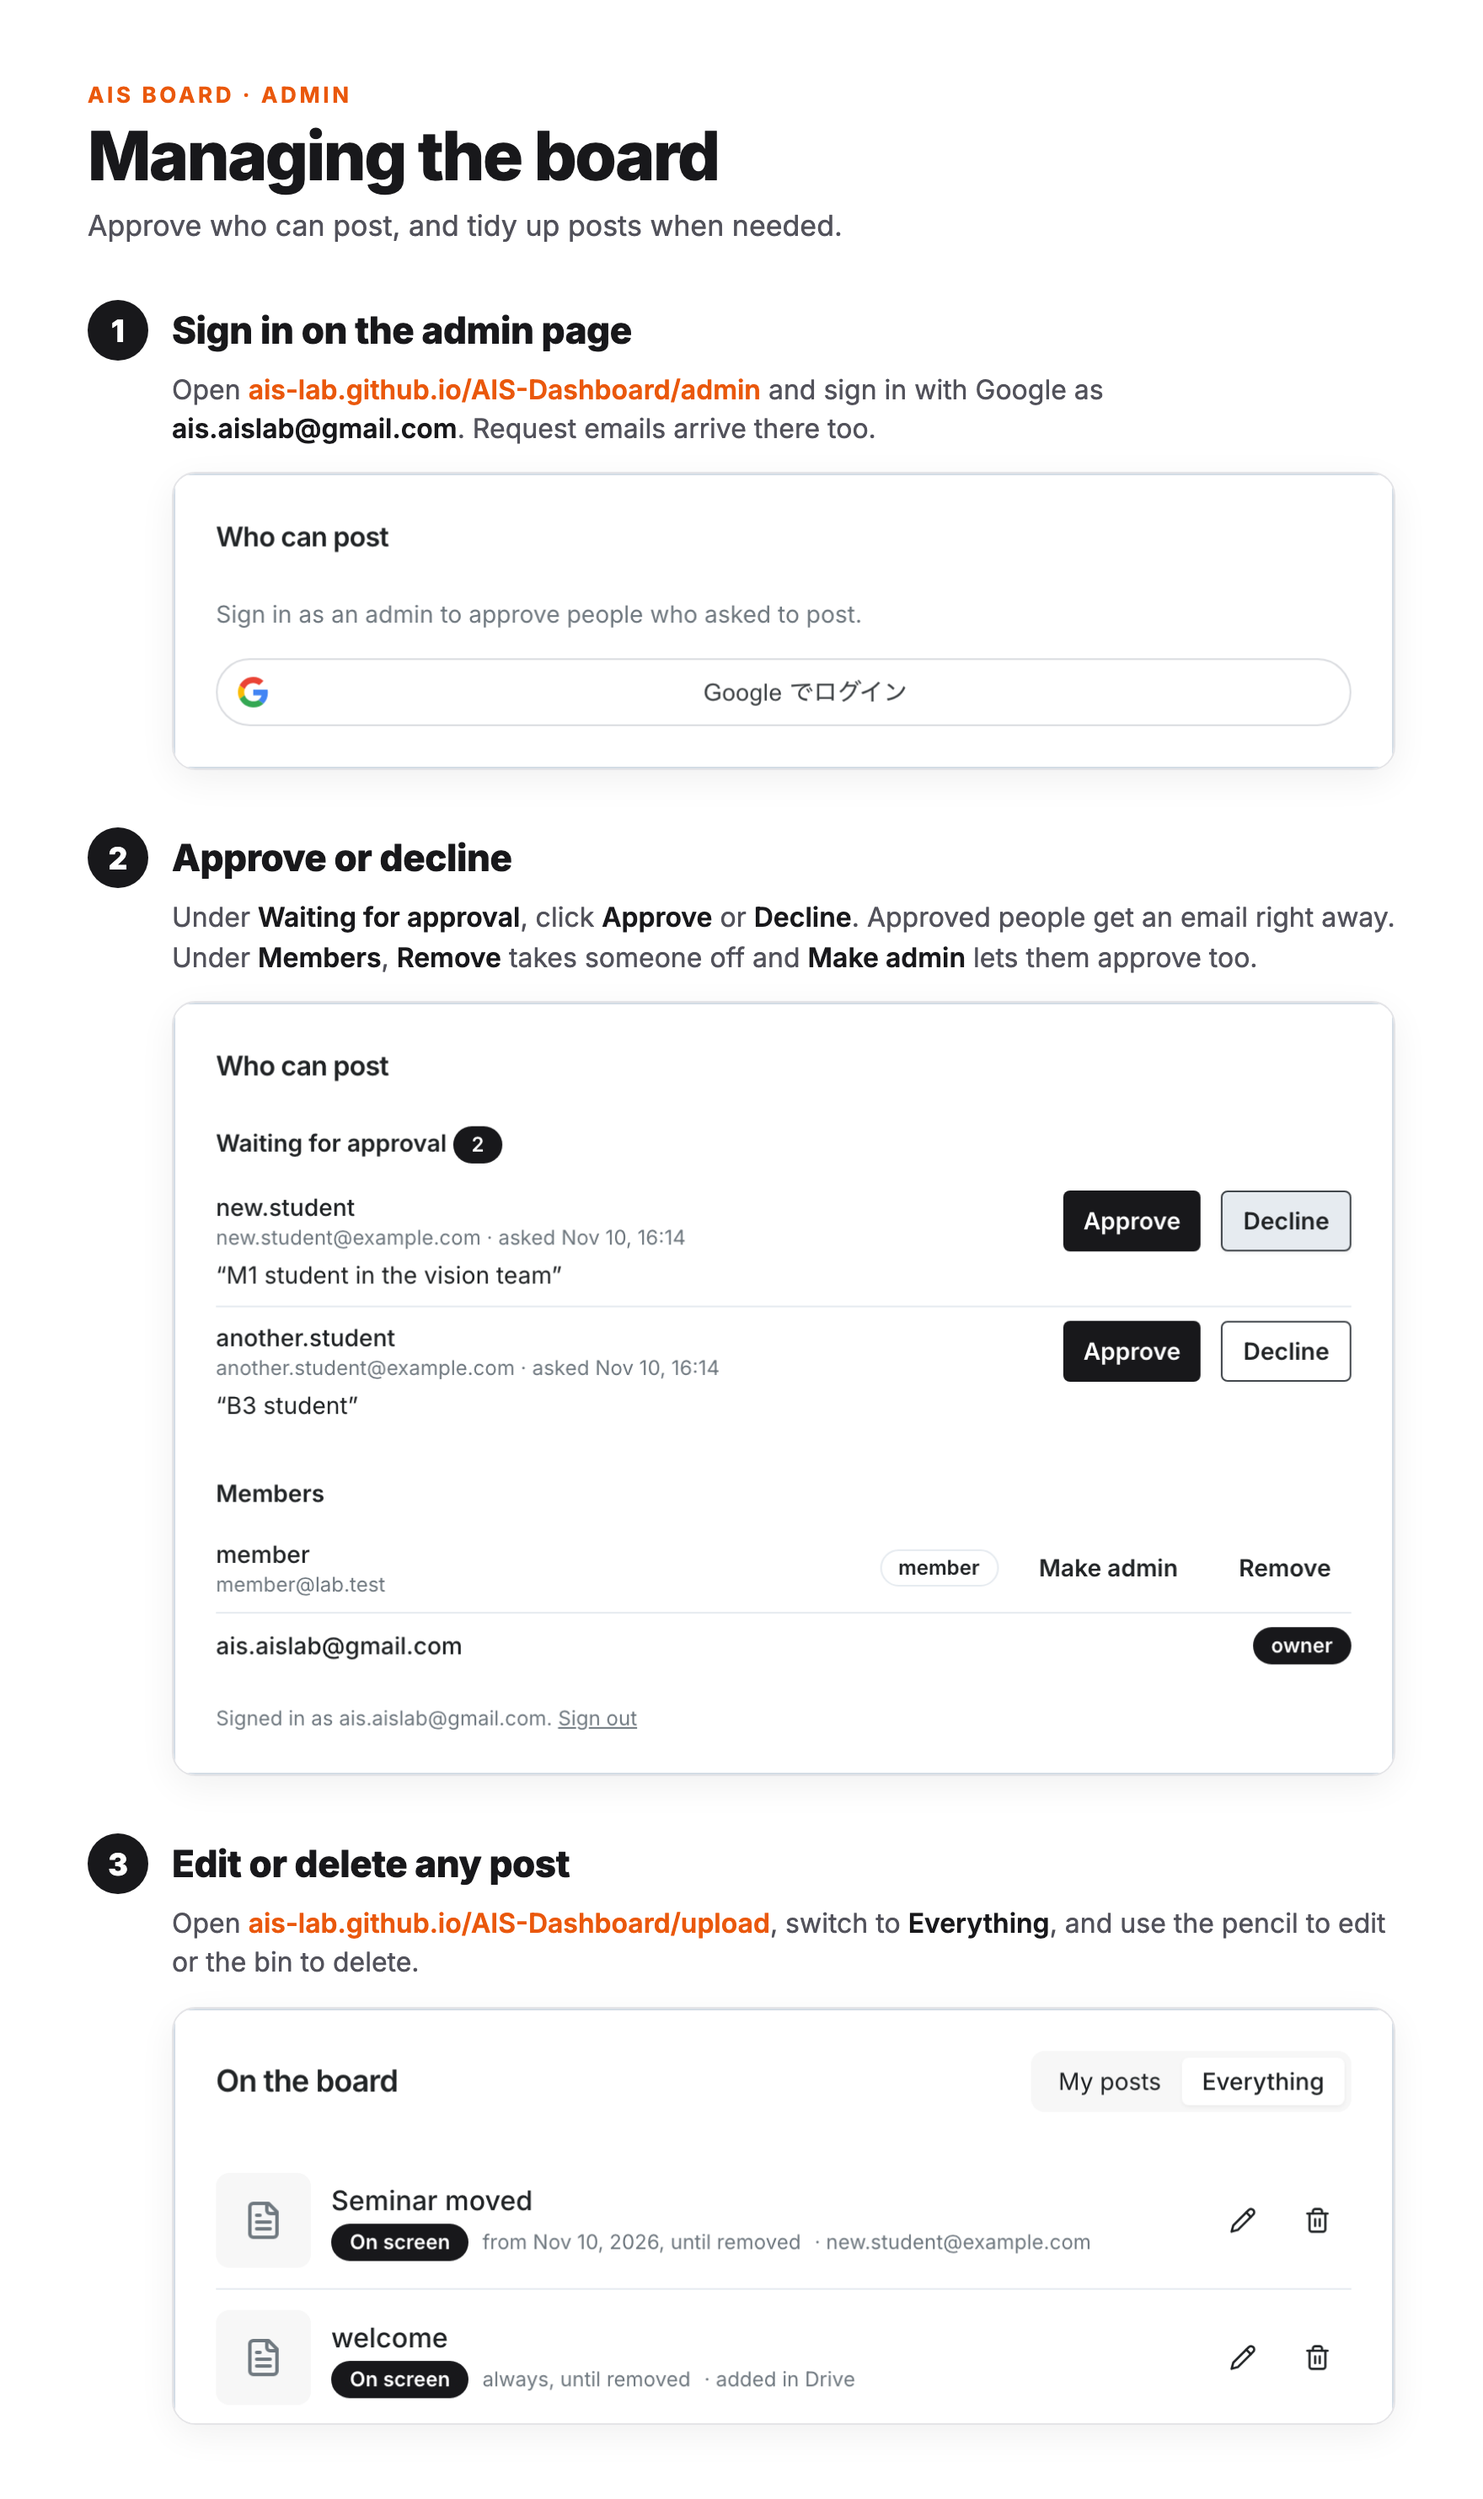
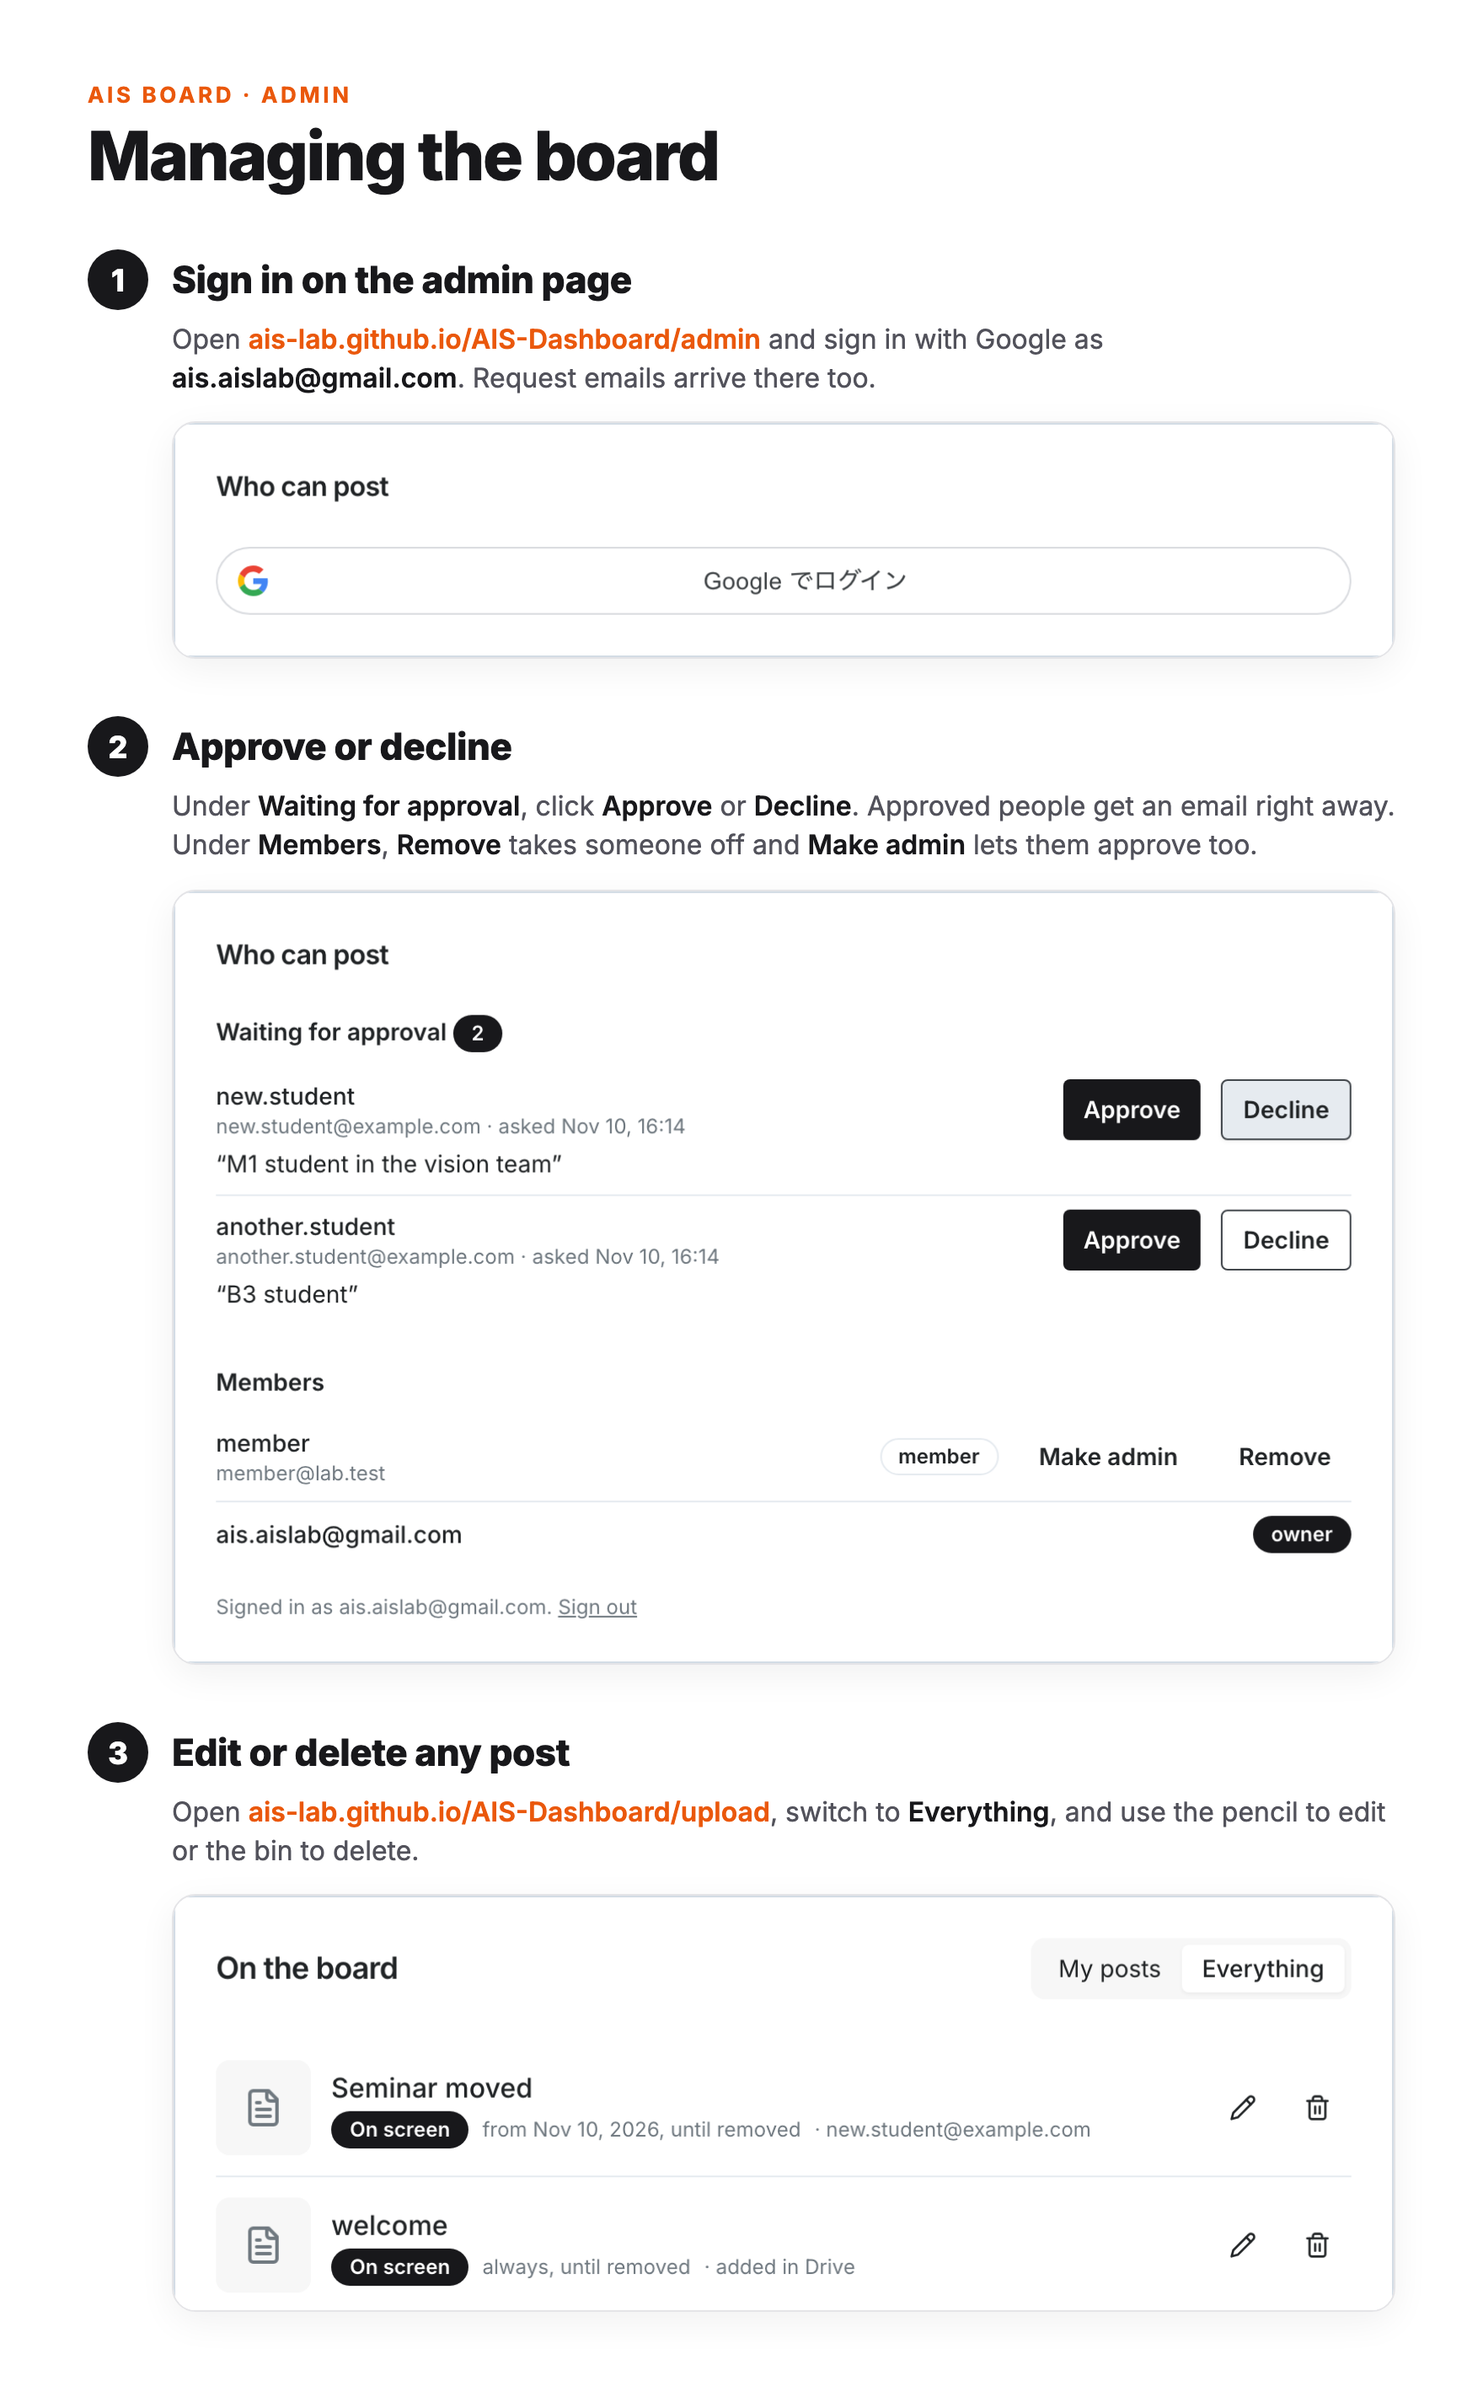
docs: refresh admin guide image, drop note on removed variables
The admin guide shows the current /admin sign-in box. The unused
NEXT_PUBLIC_ENV, NEXT_PUBLIC_BASE_URL and NEXT_PUBLIC_APP_URL variables
are deleted from the repo, so the README no longer mentions them.

diff --git a/README.md b/README.md
@@ -97,9 +97,6 @@ guides call this the OAuth consent screen.
    - Post a test item, wait for it on the board (up to a minute), then delete
      it on `/upload`.
 
-The `NEXT_PUBLIC_ENV`, `NEXT_PUBLIC_BASE_URL` and `NEXT_PUBLIC_APP_URL`
-variables are no longer used, so you can delete them.
-
 ### 5. Set up the monitor
 
 Run this once on the computer behind the monitor. You need Google Chrome; on
